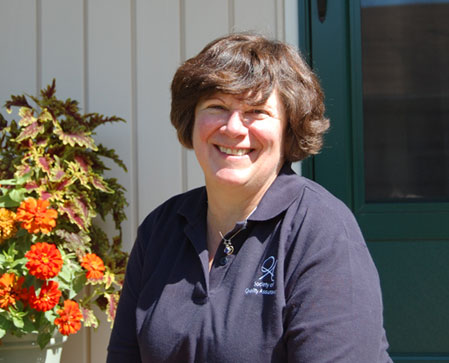
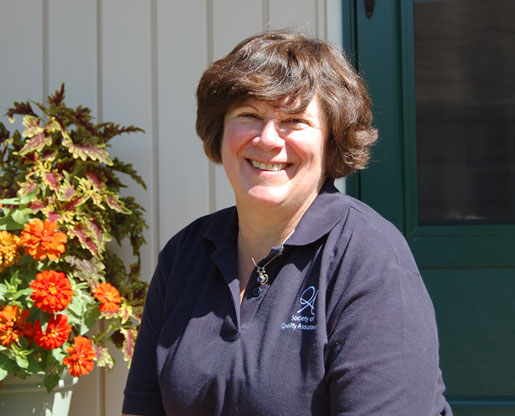
New bio images (both 1x and 2x) are in as Picturefills

diff --git a/public/index.html b/public/index.html
@@ -88,7 +88,19 @@
                         <div class="ten columns">
                             <a href="bio_michael-jaff.html" class="reveal">
                                 <figure>
-                                    <img src="/images/photo_michael-jaff.jpg" alt="" />
+                                    <div data-picture data-alt="" class="">
+                                        <div data-src="/images/photo_michael-jaff.jpg"></div>
+                                        <div data-src="/images/photo_michael-jaff@2x.jpg" data-media="(min--moz-device-pixel-ratio: 1.3), (-o-min-device-pixel-ratio: 13/10), (-webkit-min-device-pixel-ratio: 1.3), (min-device-pixel-ratio: 1.3), (min-resolution: 124.8dpi), (min-resolution: 1.3dppx)"></div>
+
+                                        <!--[if (lt IE 10) & (!IEMobile)]>
+                                        <div data-src="/images/photo_michael-jaff.jpg"></div>
+                                        <![endif]-->
+
+                                        <!-- Fallback content for non-JS browsers. -->
+                                        <noscript>
+                                            <img src="/images/photo_michael-jaff.jpg" alt="" />
+                                        </noscript>
+                                    </div>
                                     <figcaption><p><span itemprop="name">Michael R. Jaff, <span itemprop="honorificSuffix">D.O.</span></span><span itemprop="jobTitle">Founder and Director</span></p></figcaption>
                                 </figure>
                             </a>
@@ -96,7 +108,19 @@
                         <div class="ten columns">
                             <a href="bio_debra-jaff.html" class="reveal">
                                 <figure>
-                                    <img src="/images/photo_debra-jaff.jpg" alt="" />
+                                    <div data-picture data-alt="" class="">
+                                        <div data-src="/images/photo_debra-jaff.jpg"></div>
+                                        <div data-src="/images/photo_debra-jaff@2x.jpg" data-media="(min--moz-device-pixel-ratio: 1.3), (-o-min-device-pixel-ratio: 13/10), (-webkit-min-device-pixel-ratio: 1.3), (min-device-pixel-ratio: 1.3), (min-resolution: 124.8dpi), (min-resolution: 1.3dppx)"></div>
+
+                                        <!--[if (lt IE 10) & (!IEMobile)]>
+                                        <div data-src="/images/photo_debra-jaff.jpg"></div>
+                                        <![endif]-->
+
+                                        <!-- Fallback content for non-JS browsers. -->
+                                        <noscript>
+                                            <img src="/images/photo_debra-jaff.jpg" alt="" />
+                                        </noscript>
+                                    </div>
                                     <figcaption><p><span itemprop="name">Debra A. Jaff</span><span itemprop="jobTitle">Administrative Director</span></p></figcaption>
                                 </figure>
                             </a>
@@ -106,7 +130,19 @@
                         <div class="ten columns">
                             <a href="bio_gail-hadley.html" class="reveal">
                                 <figure>
-                                    <img src="/images/photo_gail-hadley.jpg" alt="" />
+                                    <div data-picture data-alt="" class="">
+                                        <div data-src="/images/photo_gail-hadley.jpg"></div>
+                                        <div data-src="/images/photo_gail-hadley@2x.jpg" data-media="(min--moz-device-pixel-ratio: 1.3), (-o-min-device-pixel-ratio: 13/10), (-webkit-min-device-pixel-ratio: 1.3), (min-device-pixel-ratio: 1.3), (min-resolution: 124.8dpi), (min-resolution: 1.3dppx)"></div>
+
+                                        <!--[if (lt IE 10) & (!IEMobile)]>
+                                        <div data-src="/images/photo_gail-hadley.jpg"></div>
+                                        <![endif]-->
+
+                                        <!-- Fallback content for non-JS browsers. -->
+                                        <noscript>
+                                            <img src="/images/photo_gail-hadley.jpg" alt="" />
+                                        </noscript>
+                                    </div>
                                     <figcaption><p><span itemprop="name">Gail L. Hadley, <span itemprop="honorificSuffix">RN</span>, <span itemprop="honorificSuffix">RVT</span></span><span itemprop="jobTitle">Technical Director</span></p>
                                     </figcaption>
                                 </figure>
@@ -115,7 +151,19 @@
                         <div class="ten columns">
                             <a href="bio_sandra-croteau.html" class="reveal">
                                 <figure>
-                                    <img src="/images/photo_sandra-croteau.jpg" alt="" />
+                                    <div data-picture data-alt="" class="">
+                                        <div data-src="/images/photo_sandra-croteau.jpg"></div>
+                                        <div data-src="/images/photo_sandra-croteau@2x.jpg" data-media="(min--moz-device-pixel-ratio: 1.3), (-o-min-device-pixel-ratio: 13/10), (-webkit-min-device-pixel-ratio: 1.3), (min-device-pixel-ratio: 1.3), (min-resolution: 124.8dpi), (min-resolution: 1.3dppx)"></div>
+
+                                        <!--[if (lt IE 10) & (!IEMobile)]>
+                                        <div data-src="/images/photo_sandra-croteau.jpg"></div>
+                                        <![endif]-->
+
+                                        <!-- Fallback content for non-JS browsers. -->
+                                        <noscript>
+                                            <img src="/images/photo_sandra-croteau.jpg" alt="" />
+                                        </noscript>
+                                    </div>
                                     <figcaption><p><span itemprop="name">Sandra M. Croteau, <span itemprop="honorificSuffix">RN</span>, <span itemprop="honorificSuffix">RVT</span></span><span itemprop="jobTitle">Technical Staff Interpreter</span></p></figcaption>
                                 </figure>
                             </a>
@@ -125,7 +173,19 @@
                         <div class="ten columns">
                             <a href="bio_josh-beckman.html" class="reveal">
                                 <figure>
-                                    <img src="/images/photo_josh-beckman.jpg" alt="" />
+                                    <div data-picture data-alt="" class="">
+                                        <div data-src="/images/photo_josh-beckman.jpg"></div>
+                                        <div data-src="/images/photo_josh-beckman@2x.jpg" data-media="(min--moz-device-pixel-ratio: 1.3), (-o-min-device-pixel-ratio: 13/10), (-webkit-min-device-pixel-ratio: 1.3), (min-device-pixel-ratio: 1.3), (min-resolution: 124.8dpi), (min-resolution: 1.3dppx)"></div>
+
+                                        <!--[if (lt IE 10) & (!IEMobile)]>
+                                        <div data-src="/images/photo_josh-beckman.jpg"></div>
+                                        <![endif]-->
+
+                                        <!-- Fallback content for non-JS browsers. -->
+                                        <noscript>
+                                            <img src="/images/photo_josh-beckman.jpg" alt="" />
+                                        </noscript>
+                                    </div>
                                     <figcaption><p><span itemprop="name">Joshua Beckman, MD</span><span itemprop="jobTitle">Physician Staff Interpreter</span></p></figcaption>
                                 </figure>
                             </a>
@@ -133,7 +193,19 @@
                         <div class="ten columns">
                             <a href="bio_victoria-sova.html" class="reveal">
                                 <figure>
-                                    <img src="/images/photo_victoria-sova.jpg" alt="" />
+                                    <div data-picture data-alt="" class="">
+                                        <div data-src="/images/photo_victoria-sova.jpg"></div>
+                                        <div data-src="/images/photo_victoria-sova@2x.jpg" data-media="(min--moz-device-pixel-ratio: 1.3), (-o-min-device-pixel-ratio: 13/10), (-webkit-min-device-pixel-ratio: 1.3), (min-device-pixel-ratio: 1.3), (min-resolution: 124.8dpi), (min-resolution: 1.3dppx)"></div>
+
+                                        <!--[if (lt IE 10) & (!IEMobile)]>
+                                        <div data-src="/images/photo_victoria-sova.jpg"></div>
+                                        <![endif]-->
+
+                                        <!-- Fallback content for non-JS browsers. -->
+                                        <noscript>
+                                            <img src="/images/photo_victoria-sova.jpg" alt="" />
+                                        </noscript>
+                                    </div>
                                     <figcaption><p><span itemprop="name">Victoria B. Sova, <span itemprop="honorificSuffix">RN</span>, <span itemprop="honorificSuffix">RVT</span></span><span itemprop="jobTitle">Technical Staff Interpreter</span></p></figcaption>
                                 </figure>
                             </a>
@@ -143,7 +215,19 @@
                         <div class="ten columns">
                             <a href="bio_susan-batdorf.html" class="reveal">
                                 <figure>
-                                    <img src="images/photo_susan-batdorf.jpg" />
+                                    <div data-picture data-alt="" class="">
+                                        <div data-src="/images/photo_susan-batdorf.jpg"></div>
+                                        <div data-src="/images/photo_susan-batdorf@2x.jpg" data-media="(min--moz-device-pixel-ratio: 1.3), (-o-min-device-pixel-ratio: 13/10), (-webkit-min-device-pixel-ratio: 1.3), (min-device-pixel-ratio: 1.3), (min-resolution: 124.8dpi), (min-resolution: 1.3dppx)"></div>
+
+                                        <!--[if (lt IE 10) & (!IEMobile)]>
+                                        <div data-src="/images/photo_susan-batdorf.jpg"></div>
+                                        <![endif]-->
+
+                                        <!-- Fallback content for non-JS browsers. -->
+                                        <noscript>
+                                            <img src="/images/photo_susan-batdorf.jpg" alt="" />
+                                        </noscript>
+                                    </div>
                                     <figcaption><p><span itemprop="name">Susan M. Batdorf</span><span itemprop="jobTitle">Quality Auditor</span></p></figcaption>
                                 </figure>
                             </a>
@@ -151,7 +235,19 @@
                         <div class="ten columns">
                             <a href="bio_mary-ramos.html" class="reveal">
                                 <figure>
-                                    <img src="/images/photo_mary-ramos.jpg" alt="" />
+                                    <div data-picture data-alt="" class="">
+                                        <div data-src="/images/photo_mary-ramos.jpg"></div>
+                                        <div data-src="/images/photo_mary-ramos@2x.jpg" data-media="(min--moz-device-pixel-ratio: 1.3), (-o-min-device-pixel-ratio: 13/10), (-webkit-min-device-pixel-ratio: 1.3), (min-device-pixel-ratio: 1.3), (min-resolution: 124.8dpi), (min-resolution: 1.3dppx)"></div>
+
+                                        <!--[if (lt IE 10) & (!IEMobile)]>
+                                        <div data-src="/images/photo_mary-ramos.jpg"></div>
+                                        <![endif]-->
+
+                                        <!-- Fallback content for non-JS browsers. -->
+                                        <noscript>
+                                            <img src="/images/photo_mary-ramos.jpg" alt="" />
+                                        </noscript>
+                                    </div>
                                     <figcaption><p><span itemprop="name">Mary Ramos</span><span itemprop="jobTitle">Office Administrator</span></p></figcaption>
                                 </figure>
                             </a>
@@ -161,7 +257,19 @@
                         <div class="ten columns">
                             <a href="bio_justin-mcneil.html" class="reveal">
                                 <figure>
-                                    <img src="/images/photo_justin-mcneil.jpg" alt="" />
+                                    <div data-picture data-alt="" class="">
+                                        <div data-src="/images/photo_justin-mcneil.jpg"></div>
+                                        <div data-src="/images/photo_justin-mcneil@2x.jpg" data-media="(min--moz-device-pixel-ratio: 1.3), (-o-min-device-pixel-ratio: 13/10), (-webkit-min-device-pixel-ratio: 1.3), (min-device-pixel-ratio: 1.3), (min-resolution: 124.8dpi), (min-resolution: 1.3dppx)"></div>
+
+                                        <!--[if (lt IE 10) & (!IEMobile)]>
+                                        <div data-src="/images/photo_justin-mcneil.jpg"></div>
+                                        <![endif]-->
+
+                                        <!-- Fallback content for non-JS browsers. -->
+                                        <noscript>
+                                            <img src="/images/photo_justin-mcneil.jpg" alt="" />
+                                        </noscript>
+                                    </div>
                                     <figcaption><p><span itemprop="name">Justin McNeil</span><span itemprop="jobTitle">Administrative Staff</span></p></figcaption>
                                 </figure>
                             </a>
